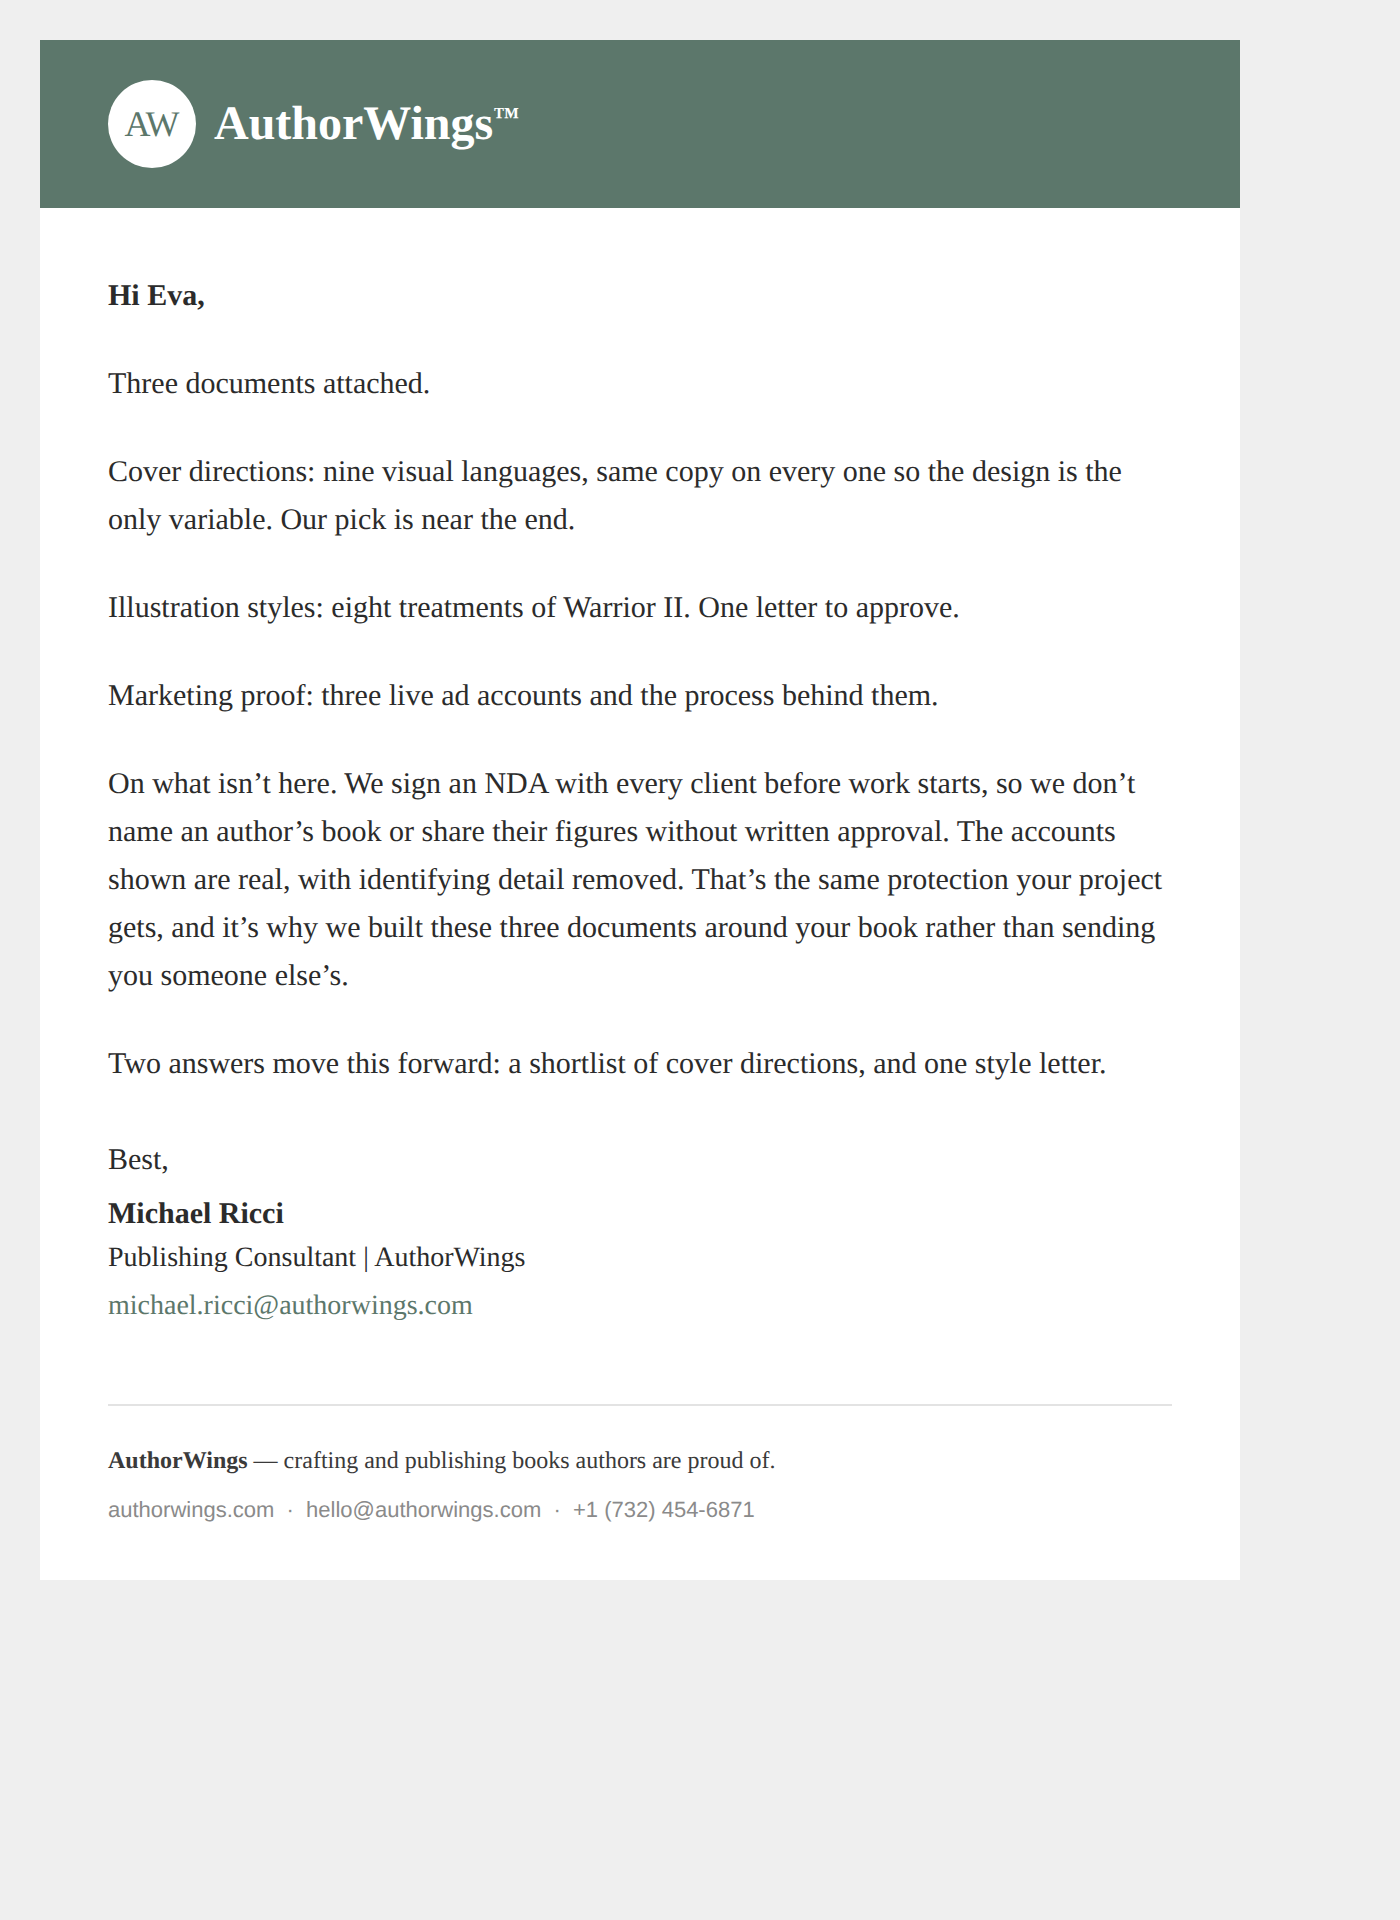
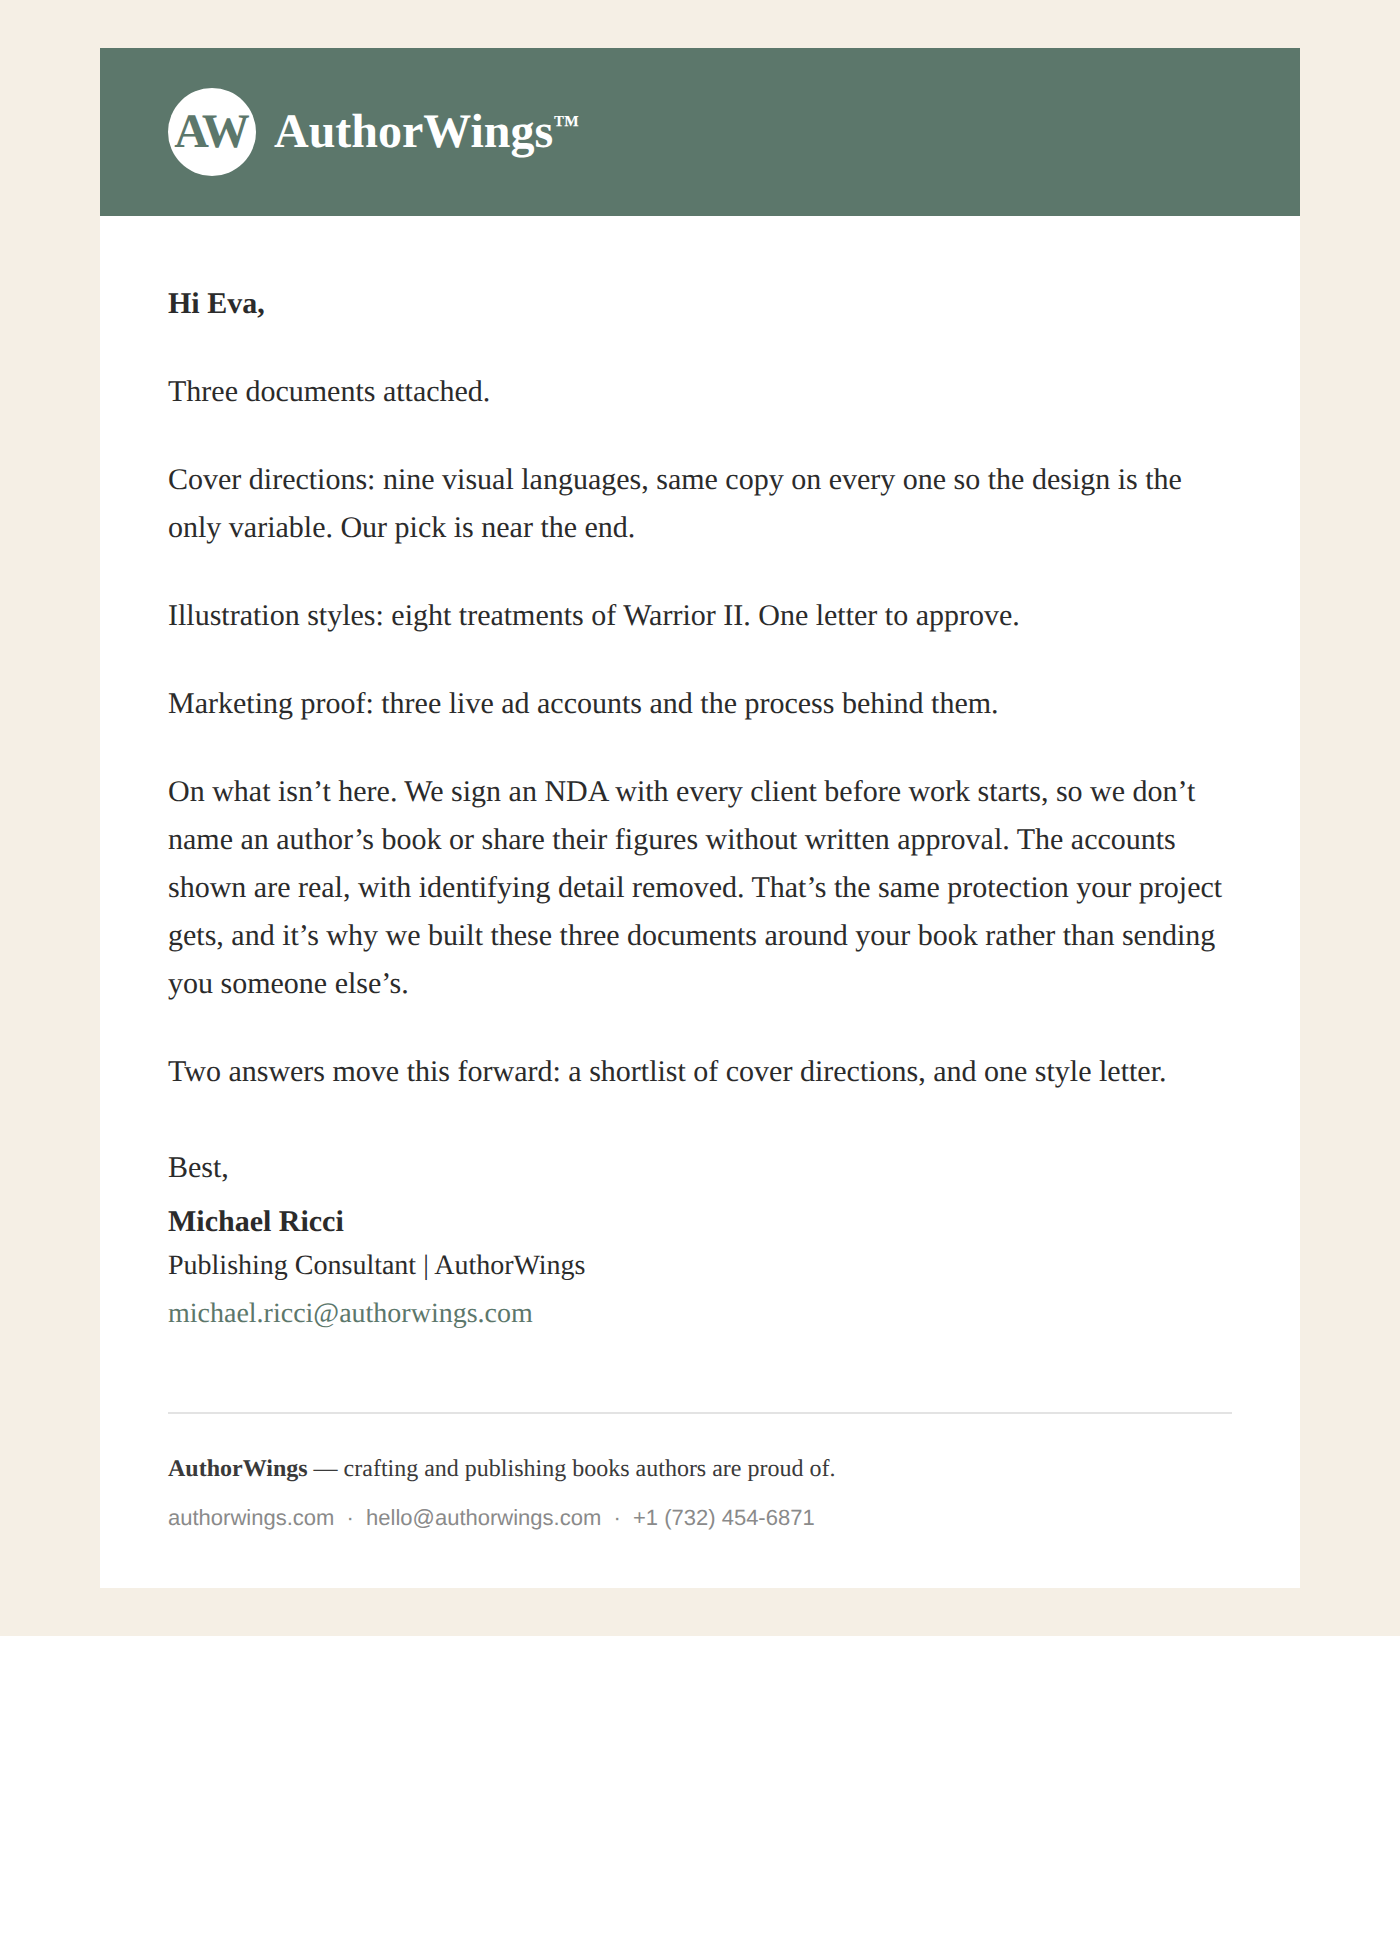
Restore the Zilla Slab monogram and set a cream page background
Puts the monogram back to Zilla Slab 700 at 24px, undoing the Bevan swap
while keeping the footer's Arial digits. The page wash moves from grey to
#F5EFE5, and the inline version gains a wrapper table to carry it, since a
bare card takes its background from the client.

Changed region(s): [[0.0307, 0.0, 0.9521, 0.8438]]

diff --git a/email/authorwings-email-template.html b/email/authorwings-email-template.html
@@ -9,13 +9,13 @@
 <title>Looking Forward to Speaking with You Tomorrow</title>
 
 <style type="text/css">
-  /* Bevan and PT Serif Bold, subset to just the logo's letters and
+  /* Zilla Slab Bold and PT Serif Bold, subset to just the logo's letters and
      embedded here, so the mark renders correctly with no network call. */
   @font-face {
     font-family: 'AW Slab';
     font-style: normal;
-    font-weight: 400;
[1 lines of base64/hex data omitted]
+    font-weight: 700;
[1 lines of base64/hex data omitted]
   }
   @font-face {
     font-family: 'AW Serif';
@@ -39,7 +39,7 @@
 <![endif]-->
 </head>
 
-<body style="margin:0; padding:0; background-color:#EFEFEF;">
+<body style="margin:0; padding:0; background-color:#F5EFE5;">
 
 <!-- PREHEADER: the line shown next to the subject in the inbox. Replace it;
      it stays hidden inside the email itself. -->
@@ -48,7 +48,7 @@
   &#847;&zwnj;&nbsp;&#847;&zwnj;&nbsp;&#847;&zwnj;&nbsp;&#847;&zwnj;&nbsp;&#847;&zwnj;&nbsp;&#847;&zwnj;&nbsp;&#847;&zwnj;&nbsp;&#847;&zwnj;&nbsp;
 </div>
 
-<table role="presentation" width="100%" cellpadding="0" cellspacing="0" border="0" style="background-color:#EFEFEF;">
+<table role="presentation" width="100%" cellpadding="0" cellspacing="0" border="0" style="background-color:#F5EFE5;">
   <tr>
     <td align="center" style="padding:24px 12px;">
 
@@ -62,9 +62,7 @@
         <!-- ============================================================
              AUTHORWINGS EMAIL HEADER
              Bar #5C776B - Disc #FFFFFF - "AW" #5C776B - Wordmark #FFFFFF
-             Monogram: Bevan, 18px, tracking -1px, in the 44px disc.
-                       Bevan is a single-weight face, so weight stays 400:
-                       asking for 700 makes clients synthesise a fake bold.
+             Monogram: Zilla Slab 700, 24px, tracking -1px, in the 44px disc
              Wordmark: PT Serif 700, 24px, set solid, no tracking
              Trademark: 13px, raised 7px so its top meets the cap height
              Both faces are embedded above; Rockwell / PT Serif / Georgia
@@ -81,8 +79,8 @@
                     style="width:44px; height:44px; background-color:#FFFFFF;
                            border-radius:22px; -webkit-border-radius:22px; -moz-border-radius:22px;
                            text-align:center; vertical-align:middle;
-                           font-family:'AW Slab', Bevan, Rockwell, Georgia, serif;
-                           font-size:18px; font-weight:400; line-height:44px;
+                           font-family:'AW Slab', 'Zilla Slab', Rockwell, Georgia, serif;
+                           font-size:24px; font-weight:700; line-height:44px;
                            color:#5C776B; letter-spacing:-1px; text-indent:-1px;
                            mso-line-height-rule:exactly;">
                   AW

diff --git a/email/authorwings-email-header.html b/email/authorwings-email-header.html
@@ -9,13 +9,13 @@
 <title>AuthorWings &mdash; Email Header</title>
 
 <style type="text/css">
-  /* Bevan and PT Serif Bold, subset to just the logo's letters and
+  /* Zilla Slab Bold and PT Serif Bold, subset to just the logo's letters and
      embedded here, so the mark renders correctly with no network call. */
   @font-face {
     font-family: 'AW Slab';
     font-style: normal;
-    font-weight: 400;
[1 lines of base64/hex data omitted]
+    font-weight: 700;
[1 lines of base64/hex data omitted]
   }
   @font-face {
     font-family: 'AW Serif';
@@ -38,9 +38,9 @@
 <![endif]-->
 </head>
 
-<body style="margin:0; padding:0; background-color:#EFEFEF;">
+<body style="margin:0; padding:0; background-color:#F5EFE5;">
 
-<table role="presentation" width="100%" cellpadding="0" cellspacing="0" border="0" style="background-color:#EFEFEF;">
+<table role="presentation" width="100%" cellpadding="0" cellspacing="0" border="0" style="background-color:#F5EFE5;">
   <tr>
     <td align="center" style="padding:24px 12px;">
 
@@ -54,9 +54,7 @@
         <!-- ============================================================
              AUTHORWINGS EMAIL HEADER
              Bar #5C776B - Disc #FFFFFF - "AW" #5C776B - Wordmark #FFFFFF
-             Monogram: Bevan, 18px, tracking -1px, in the 44px disc.
-                       Bevan is a single-weight face, so weight stays 400:
-                       asking for 700 makes clients synthesise a fake bold.
+             Monogram: Zilla Slab 700, 24px, tracking -1px, in the 44px disc
              Wordmark: PT Serif 700, 24px, set solid, no tracking
              Trademark: 13px, raised 7px so its top meets the cap height
              Both faces are embedded above; Rockwell / PT Serif / Georgia
@@ -73,8 +71,8 @@
                     style="width:44px; height:44px; background-color:#FFFFFF;
                            border-radius:22px; -webkit-border-radius:22px; -moz-border-radius:22px;
                            text-align:center; vertical-align:middle;
-                           font-family:'AW Slab', Bevan, Rockwell, Georgia, serif;
-                           font-size:18px; font-weight:400; line-height:44px;
+                           font-family:'AW Slab', 'Zilla Slab', Rockwell, Georgia, serif;
+                           font-size:24px; font-weight:700; line-height:44px;
                            color:#5C776B; letter-spacing:-1px; text-indent:-1px;
                            mso-line-height-rule:exactly;">
                   AW

diff --git a/email/authorwings-email-inline.html b/email/authorwings-email-inline.html
@@ -1,3 +1,8 @@
+<!-- Cream page background. Change #F5EFE5 in the two places below to restyle it. -->
+<table role="presentation" width="100%" cellpadding="0" cellspacing="0" border="0" bgcolor="#F5EFE5" style="background-color:#F5EFE5; border-collapse:collapse;">
+  <tr>
+    <td align="center" style="padding:24px 12px;">
+
 <table role="presentation" width="600" cellpadding="0" cellspacing="0" border="0" style="width:600px; max-width:600px; background-color:#FFFFFF; border-collapse:collapse;">
 
   <!-- ===================== HEADER ===================== -->
@@ -9,8 +14,8 @@
               style="width:44px; height:44px; background-color:#FFFFFF;
                      border-radius:22px; -webkit-border-radius:22px; -moz-border-radius:22px;
                      text-align:center; vertical-align:middle;
-                     font-family:Bevan, Rockwell, Georgia, serif;
-                     font-size:18px; font-weight:400; line-height:44px;
+                     font-family:'Zilla Slab', Rockwell, Georgia, serif;
+                     font-size:24px; font-weight:700; line-height:44px;
                      color:#5C776B; letter-spacing:-1px; text-indent:-1px;
                      mso-line-height-rule:exactly;">AW</td>
           <td width="9" style="width:9px; min-width:9px; font-size:1px; line-height:1px;">&#8203;</td>
@@ -100,4 +105,7 @@
     </td>
   </tr>
 
+</table>
+    </td>
+  </tr>
 </table>

diff --git a/email/authorwings-email-template-image-logo.html b/email/authorwings-email-template-image-logo.html
@@ -32,7 +32,7 @@
 <![endif]-->
 </head>
 
-<body style="margin:0; padding:0; background-color:#EFEFEF;">
+<body style="margin:0; padding:0; background-color:#F5EFE5;">
 
 <!-- PREHEADER: the line shown next to the subject in the inbox. Replace it;
      it stays hidden inside the email itself. -->
@@ -41,7 +41,7 @@
   &#847;&zwnj;&nbsp;&#847;&zwnj;&nbsp;&#847;&zwnj;&nbsp;&#847;&zwnj;&nbsp;&#847;&zwnj;&nbsp;&#847;&zwnj;&nbsp;&#847;&zwnj;&nbsp;&#847;&zwnj;&nbsp;
 </div>
 
-<table role="presentation" width="100%" cellpadding="0" cellspacing="0" border="0" style="background-color:#EFEFEF;">
+<table role="presentation" width="100%" cellpadding="0" cellspacing="0" border="0" style="background-color:#F5EFE5;">
   <tr>
     <td align="center" style="padding:24px 12px;">
 
